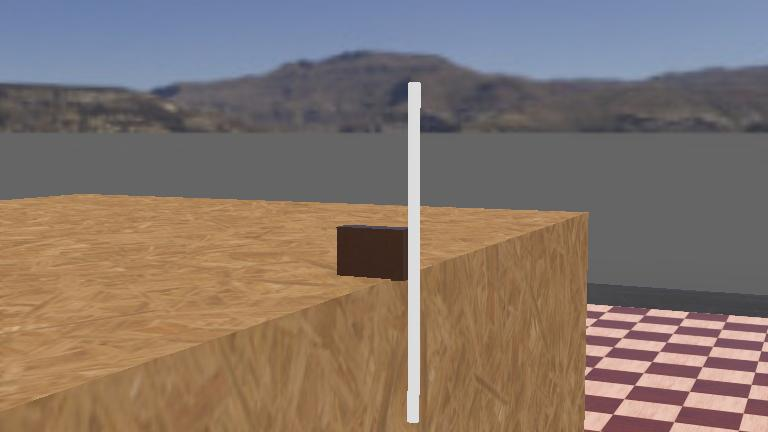
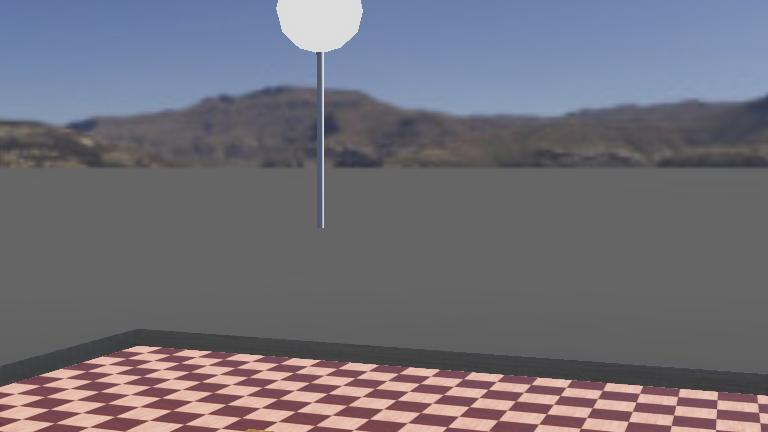
avances pendulo

diff --git a/controllers/controlador_pendulo/controlador_pendulo.cpp b/controllers/controlador_pendulo/controlador_pendulo.cpp
@@ -6,13 +6,6 @@ using namespace std;
 
 using namespace webots;
 
-// This is the main program of your controller.
-// It creates an instance of your Robot instance, launches its
-// function(s) and destroys it at the end of the execution.
-// Note that only one instance of Robot should be created in
-// a controller program.
-// The arguments of the main function can be specified by the
-// "controllerArgs" field of the Robot node
 int main(int argc, char **argv) {
   // create the Robot instance.
   Robot *robot = new Robot();
@@ -21,6 +14,9 @@ int main(int argc, char **argv) {
   int timeStep = (int)robot->getBasicTimeStep();
 
   Motor *motor = robot->getMotor("motor");
+  
+  motor->setPosition(INFINITY);
+  
   PositionSensor *ps = robot->getPositionSensor("encoder");
   ps->enable(timeStep);
 
@@ -35,7 +31,6 @@ int main(int argc, char **argv) {
     // Process sensor data here.
 
     // Enter here functions to send actuator commands, like:
-    motor->setPosition(6.28);
   };
 
   // Enter here exit cleanup code.
